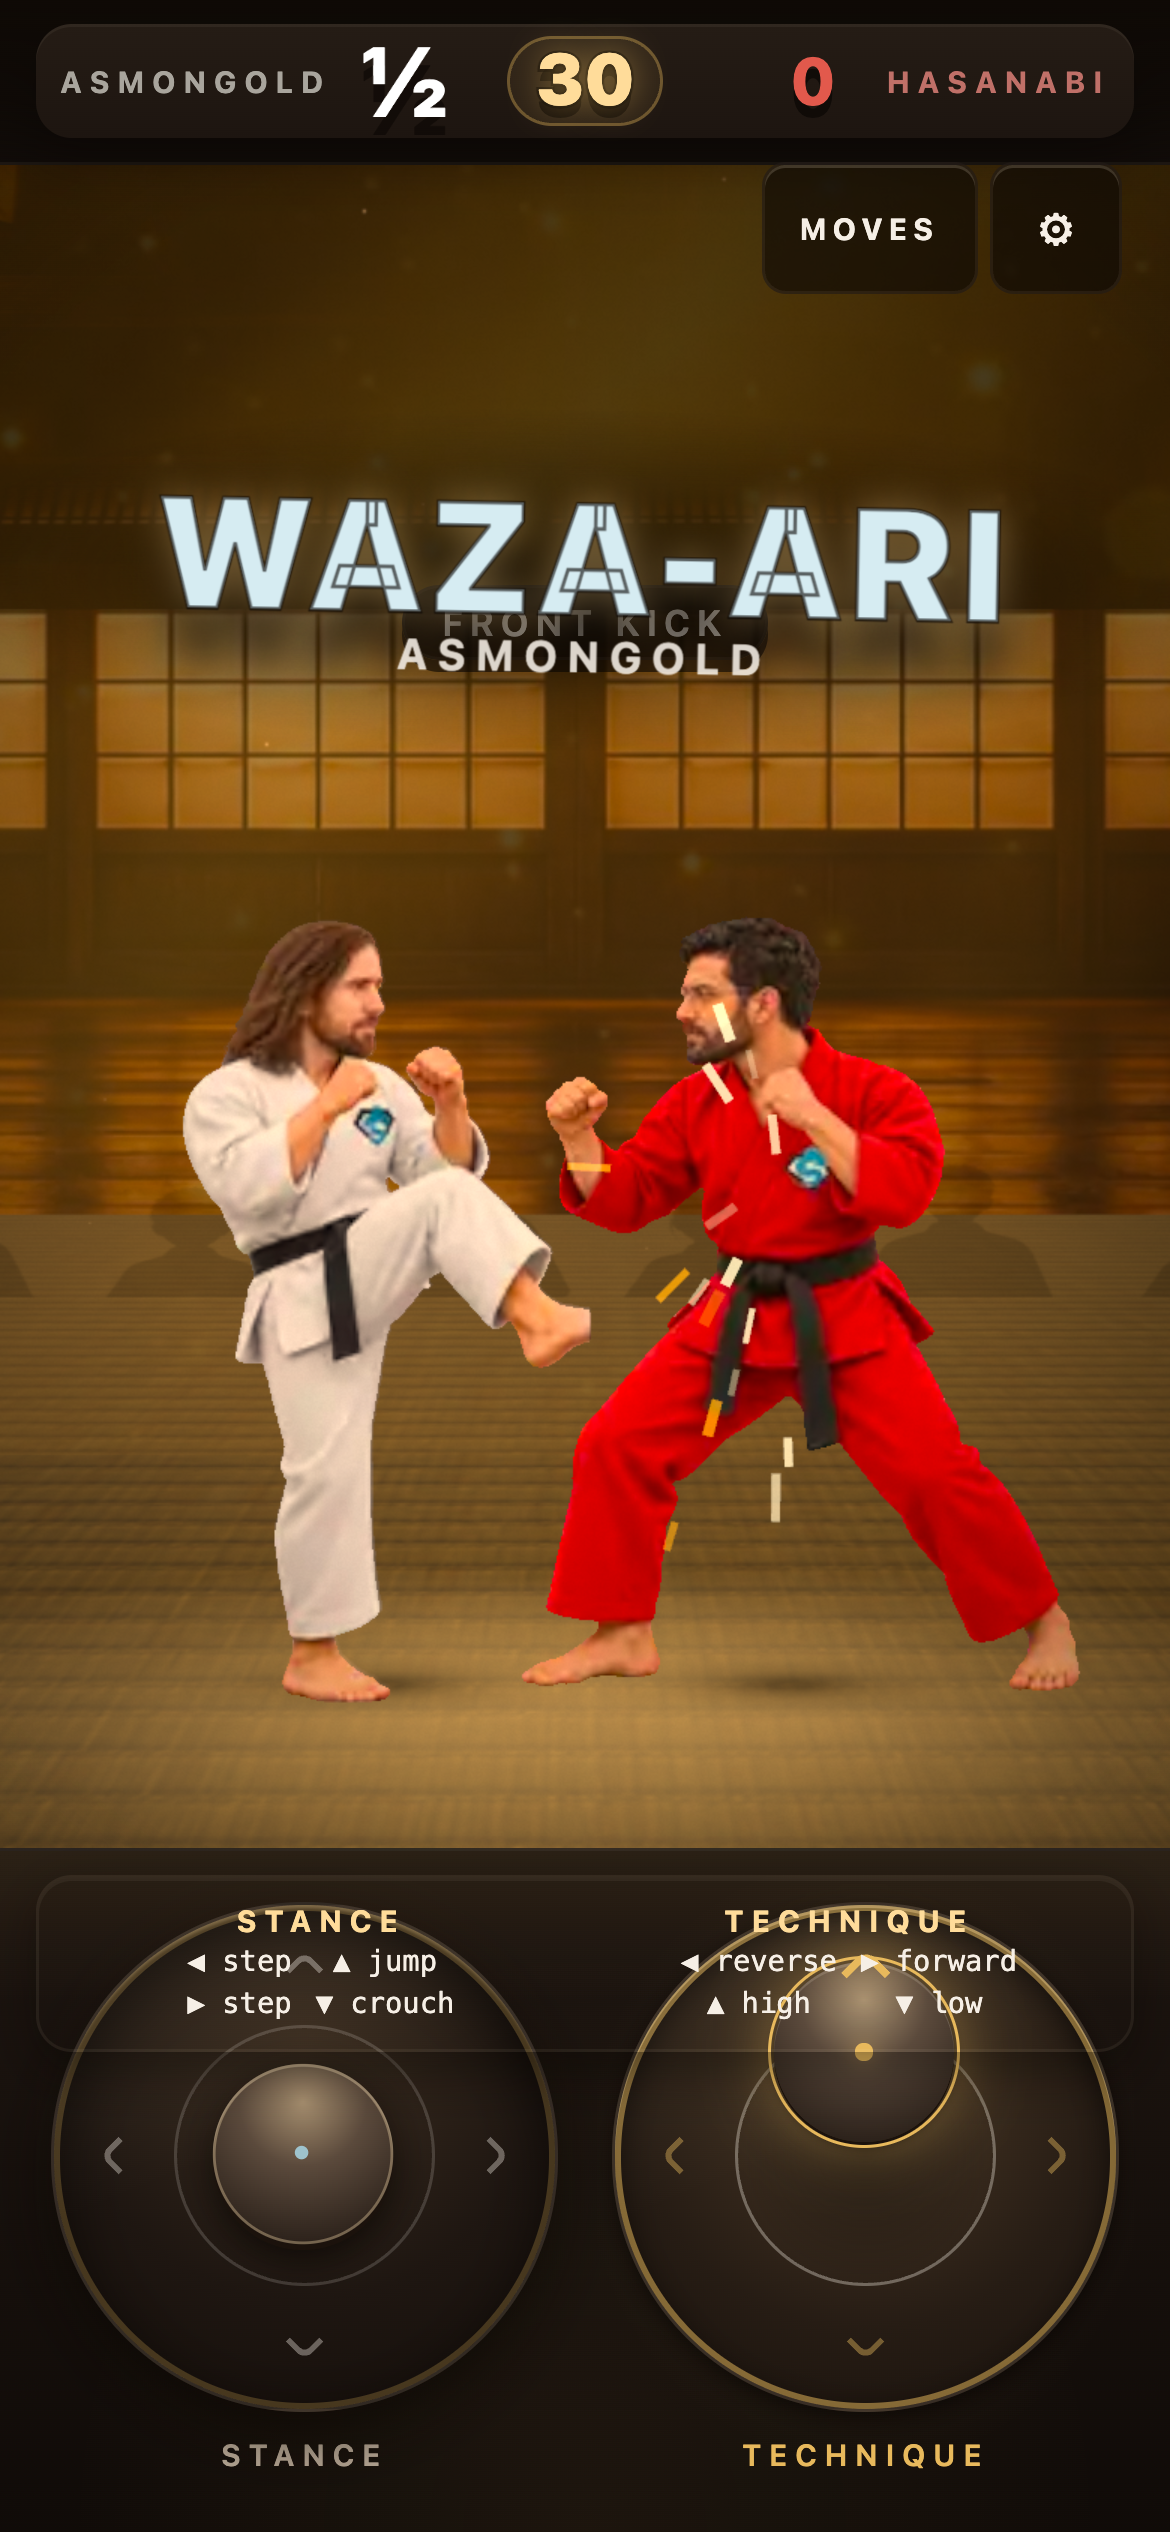
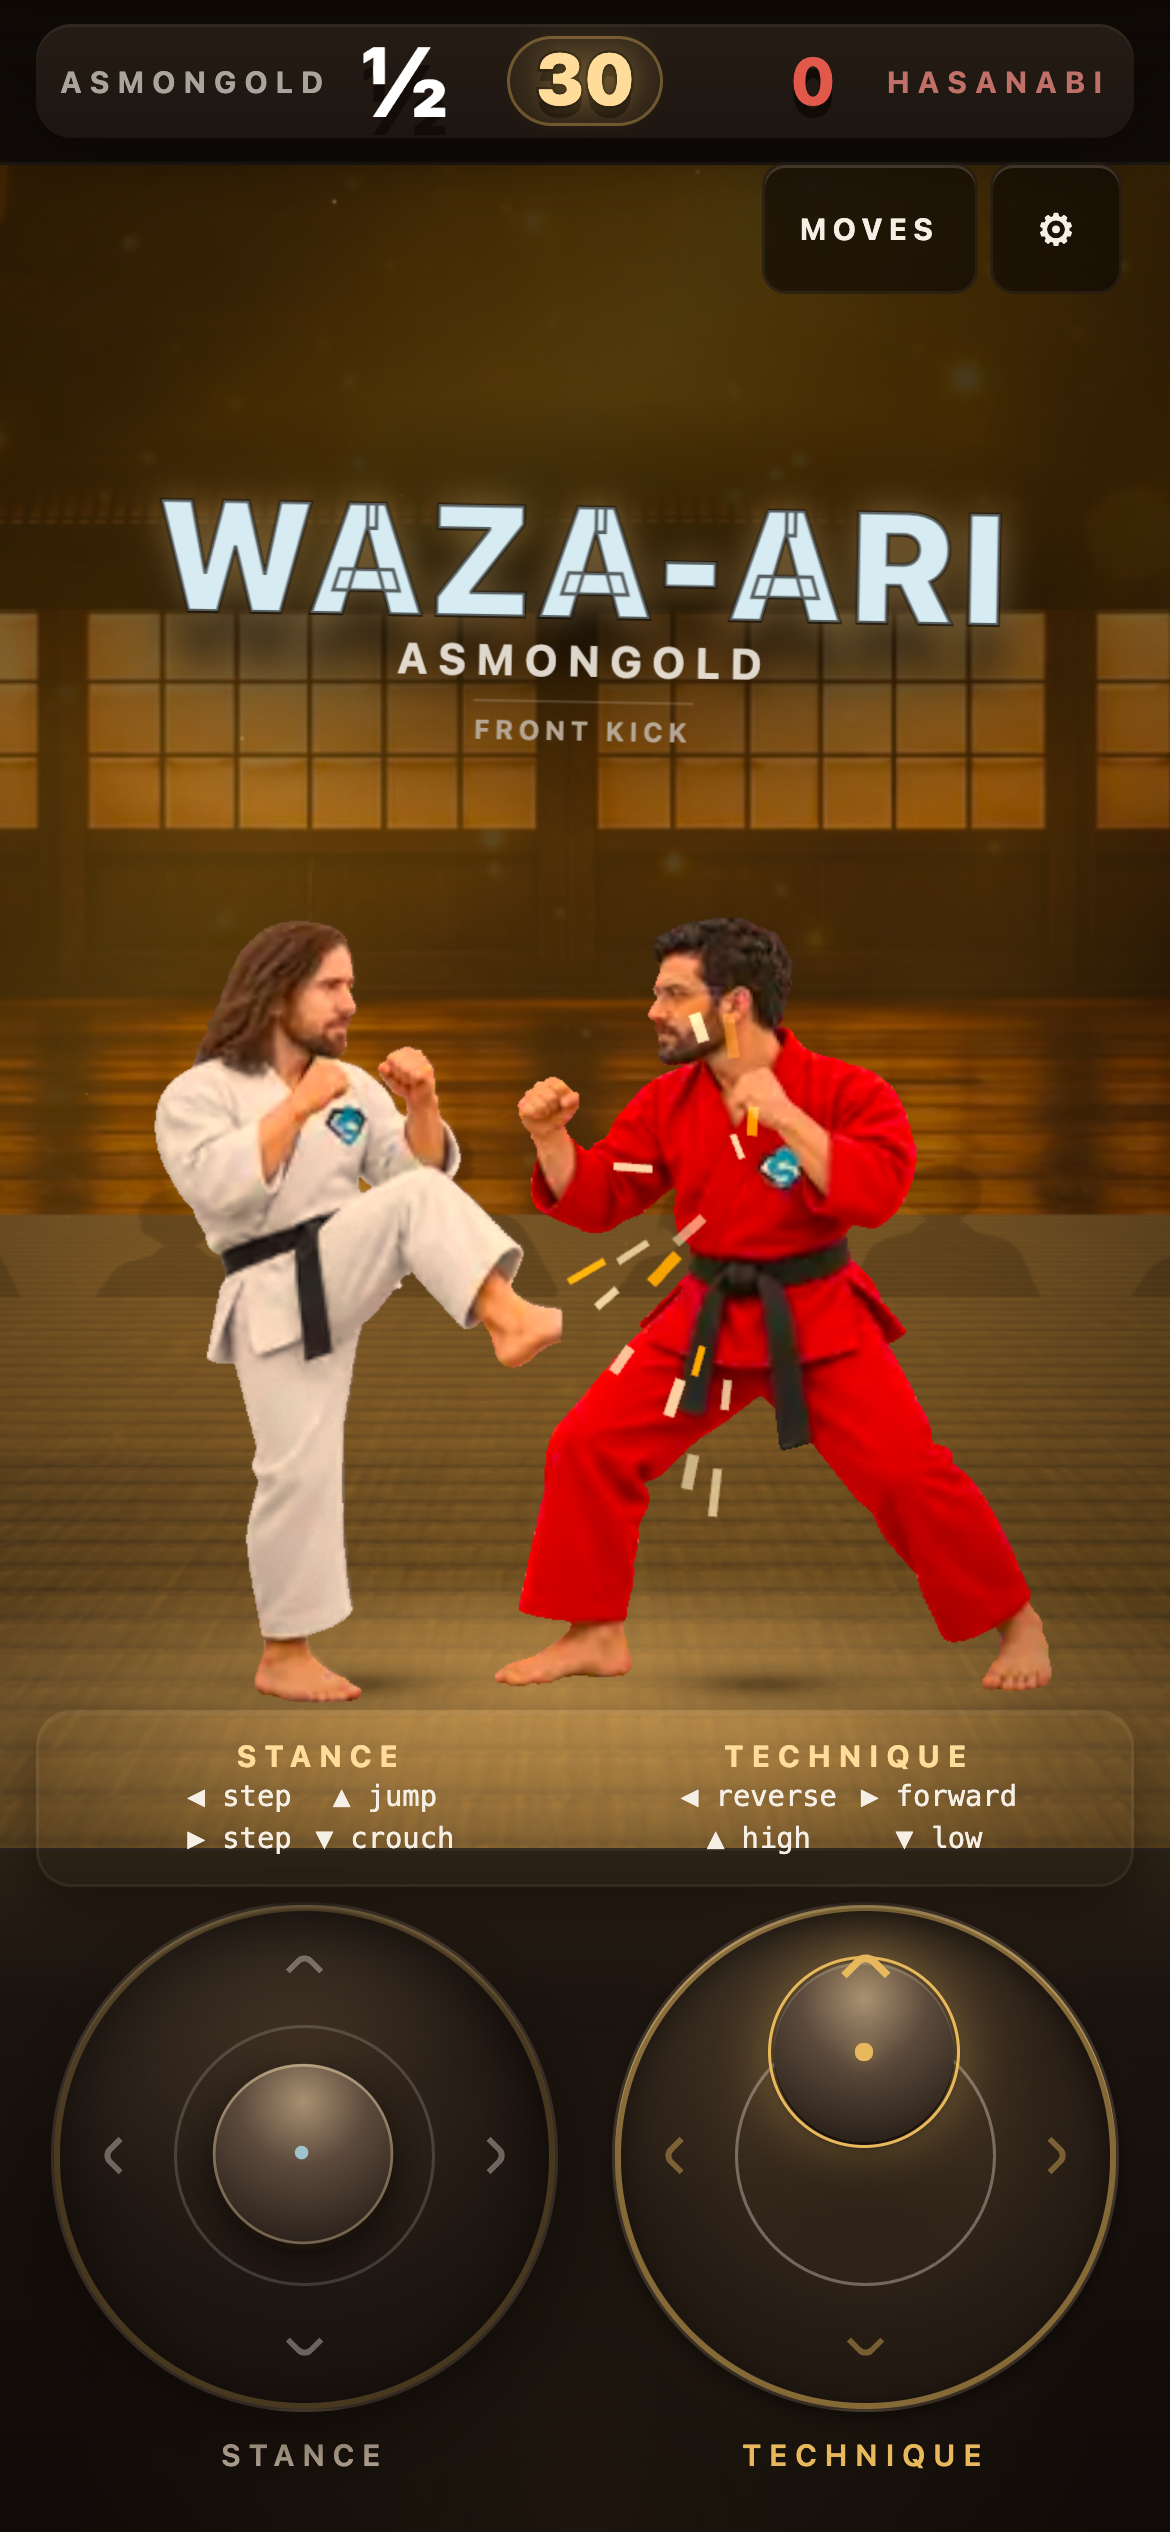
fix(hud): a scored point printed two plates in the same 75px of screen
claude-sonnet-5.5, gpt-6-sol and step-3.7-flash — three providers, no shared
lineage — all reported the same collision from the same frames: the IPPON
callout overlapping the move-name pill, unreadable.

Measured: the stamp spans y=156–231, the pill y=195–220. The pill sits entirely
inside the stamp. 25px of overlap, two competing plates over the fighters'
heads, at the exact moment the player is meant to be reading the result.

They could not have found the cause, because the cause is that `Hud.call()`
wrote the move name to the separate technique pill — the mid-move confirmation
— rather than to the stamp it was announcing. A scored point is one statement,
so it is one element now: the stamp carries the move as a third line, a quiet
receipt under the call and the scorer's name, and the pill is cleared outright
rather than left holding a duplicate.

Also lifts the first-run coach strip out of the pad. qwen3.8-27b,
seed-2-1-turbo and claude-sonnet-5.5 reported it obscuring the sticks, and
measuring it showed the strip's bottom 50px lying across the rings' top 50px
with the UP chevron at y=650 underneath — the strip was covering the exact
affordance it exists to teach.

The rings could not move out of the way. The pad is 228px tall holding 170px
rings, leaving 29px of slack top and bottom against a 59px strip, so pushing
them down clips them off the pad's bottom edge. Tried it, captured it, reverted
[…]

diff --git a/apps/game/src/styles.css b/apps/game/src/styles.css
@@ -869,6 +869,19 @@ body.show-perf #backend {
   opacity: 0.88;
 }
 
+/* Third line of a scored point: which move did it. Quieter than the call,
+   quieter than the name — it is the receipt, not the announcement. */
+.banner .call-move {
+  margin-top: var(--space-1);
+  padding-top: var(--space-1);
+  border-top: 1px solid color-mix(in oklab, var(--text) 16%, transparent);
+  font-size: var(--text-2xs);
+  font-weight: var(--weight-bold);
+  letter-spacing: var(--track-wide);
+  text-transform: uppercase;
+  color: var(--text-muted);
+}
+
 /* The dojo's edges fall into shadow so the fighters own the frame. */
 #stage::after {
   content: "";
@@ -1344,7 +1357,21 @@ body:has(.result[data-phase='result'].show) .stick-zone {
    rounds said so, and they were right. */
 .coach-strip {
   position: absolute;
-  inset-block-start: var(--space-2);
+  /* Lifted clear OUT of the pad, over the dojo's lower edge.
+     It used to sit inside the pad at inset-block-start: var(--space-2), and
+     the pad is 228px tall holding 170px rings — the strip's bottom 50px lay
+     across the rings' top 50px, and the up chevron at y=650 was underneath it.
+     That chevron is the affordance the strip exists to teach, and the strip was
+     covering it. Three rounds running (qwen3.8-27b, seed-2-1-turbo,
+     claude-sonnet-5.5) reported the strip obscuring the sticks and were right
+     about the part that matters.
+
+     The rings cannot move — the pad has 29px of slack top and bottom and the
+     strip is 59px, so clearing it pushes the ring 10px off the pad's bottom
+     edge. Stepping them down was tried and clipped them. So the strip leaves
+     instead, and sits directly above the controls it describes, over the mat. */
+  inset-block-start: auto;
+  inset-block-end: calc(100% - var(--space-3));
   inset-inline: var(--space-3);
   z-index: 3;
   display: grid;

diff --git a/apps/game/src/hud.ts b/apps/game/src/hud.ts
@@ -123,15 +123,27 @@ export class Hud {
     const who = document.createElement('span');
     who.className = 'call-name';
     who.textContent = scorerName;
-    this.banner.replaceChildren(word, who);
+    // The move that scored goes INSIDE the stamp. It used to be written to the
+    // separate technique pill, which sits at 25% of the stage while this stamp
+    // spans 18%–31% — the pill landed entirely inside the stamp, 25px of
+    // overlap, with two competing plates over the fighters' heads. Three
+    // unrelated reviewers reported the IPPON callout as unreadable and
+    // colliding with the move name, and all three were right.
+    //
+    // A scored point is one statement, so it is now one element. The pill is
+    // the mid-move confirmation; the stamp is the payoff, and it keeps its
+    // own copy of the move name rather than borrowing the pill's.
+    const how = document.createElement('span');
+    how.className = 'call-move';
+    how.textContent = moveName;
+    this.banner.replaceChildren(word, who, how);
     this.banner.dataset['tone'] = call.value;
     this.banner.classList.add('show');
     Hud.replay(this.banner, 'slam');
     this.bannerUntil = nowMs + 1800;
-    this.technique.textContent = `${moveName}${call.counter ? ' · counter' : ''}`;
-    // The call is the louder statement, so the move name holds for as long as
-    // the call itself rather than stealing the move-confirmation's short window.
-    this.techniqueUntil = this.bannerUntil;
+    // Clear the mid-move pill outright: the stamp now carries the move name,
+    // and leaving the pill up put two plates in the same band of screen.
+    this.clearTechnique();
   }
 
   /** A new bout starts clean. */
